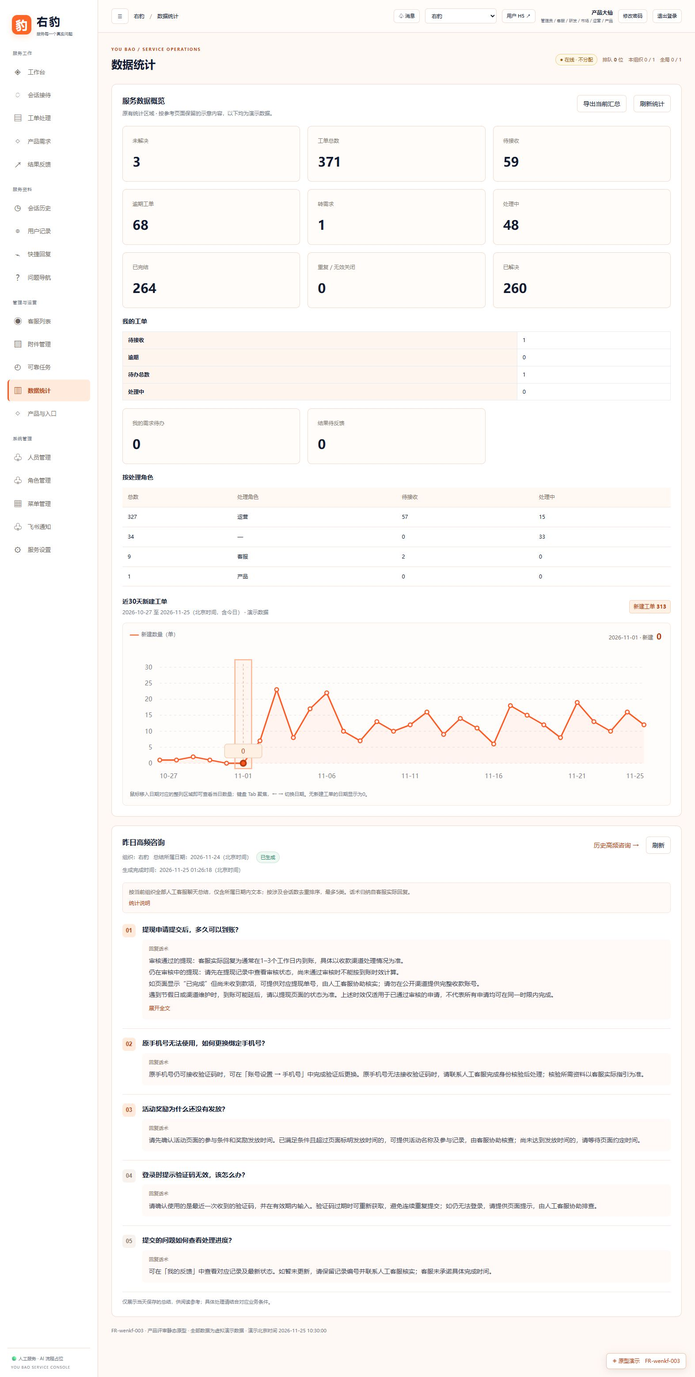
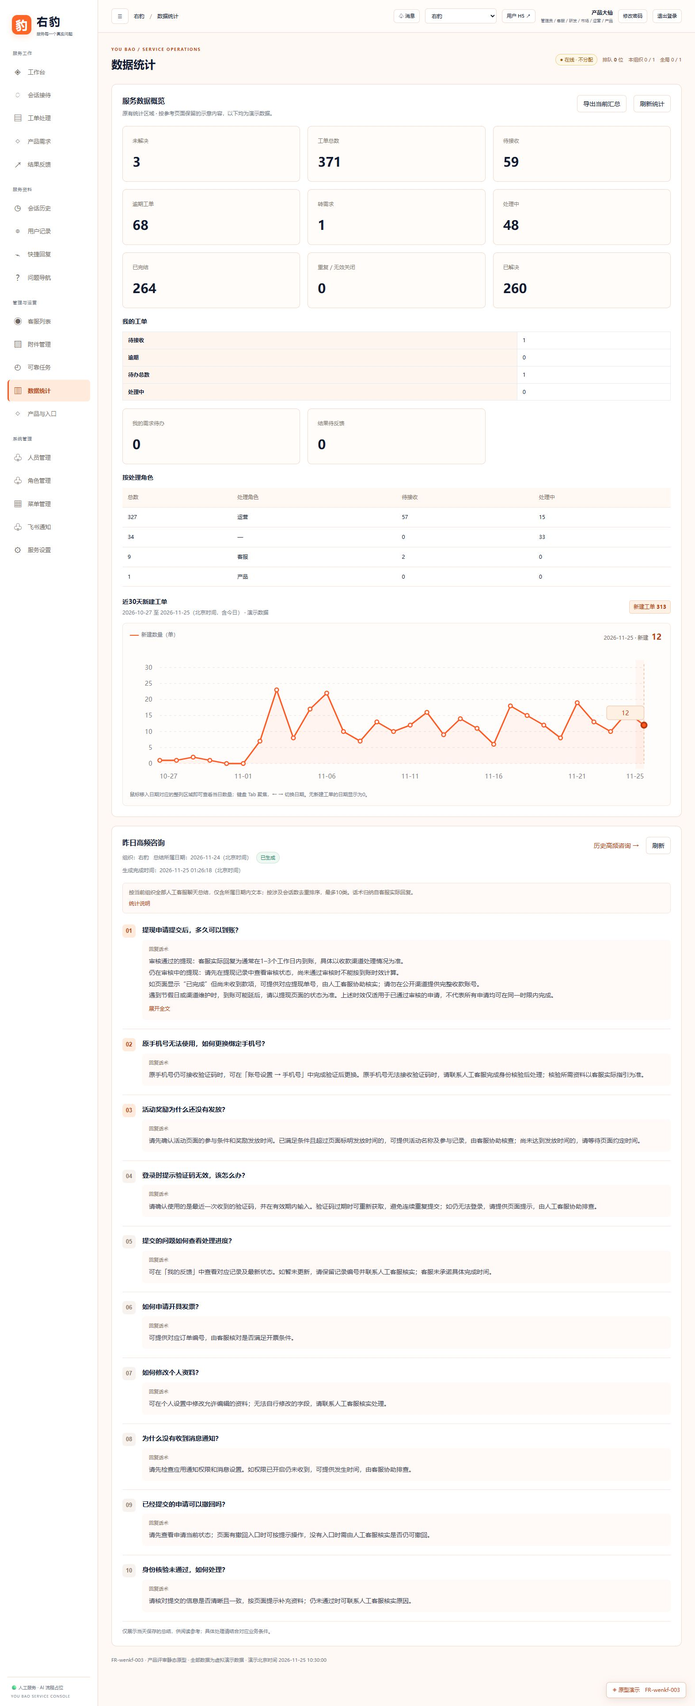
fix(FR-wenkf-003): update frequent consultations to Top 10

diff --git a/01-需求档案/FR-wenkf-003-每日高频咨询/04-静态Demo/FR-wenkf-003-每日高频咨询Demo.html b/01-需求档案/FR-wenkf-003-每日高频咨询/04-静态Demo/FR-wenkf-003-每日高频咨询Demo.html
@@ -14,7 +14,7 @@
 const $=s=>document.querySelector(s), $$=s=>[...document.querySelectorAll(s)];
 const shift=(d,n)=>new Date(Date.parse(d+'T00:00:00Z')+n*86400000).toISOString().slice(0,10);
 const days=(a,b)=>Math.round((Date.parse(b+'T00:00:00Z')-Date.parse(a+'T00:00:00Z'))/86400000);
-const scenes={success:'昨日成功 · Top 5',three:'实际3类 · 不补足',tie:'第5/6名同频 · 固定顺序',missing:'单项回复缺失',crossday:'跨日提问 · 次日回复不补入',history:'历史日期 · 20日分页',pending:'待生成 · 02:00前',generating:'生成中 · 02:00前',empty:'当日无有效咨询',failed:'生成失败 · 已超时',overdue:'生成中 · 已超时',first:'上线当天 · 首份未到',firstNext:'上线次日 · 首份完整自然日',loading:'查询加载中',readError:'首次读取失败',staleError:'同日刷新失败 · 保留旧结果',pageError:'下一次日期翻页失败',permission:'无数据统计权限',orgRace:'切组织 · 旧请求晚返回',midnight:'跨零点 · 刷新切昨日',recovered:'失败日已自动补齐',protected:'成功保存后重复任务失败'};
+const scenes={success:'昨日成功 · Top 10',three:'实际3类 · 不补足',tie:'第10/11名同频 · 固定顺序',missing:'单项回复缺失',crossday:'跨日提问 · 次日回复不补入',history:'历史日期 · 20日分页',pending:'待生成 · 02:00前',generating:'生成中 · 02:00前',empty:'当日无有效咨询',failed:'生成失败 · 已超时',overdue:'生成中 · 已超时',first:'上线当天 · 首份未到',firstNext:'上线次日 · 首份完整自然日',loading:'查询加载中',readError:'首次读取失败',staleError:'同日刷新失败 · 保留旧结果',pageError:'下一次日期翻页失败',permission:'无数据统计权限',orgRace:'切组织 · 旧请求晚返回',midnight:'跨零点 · 刷新切昨日',recovered:'失败日已自动补齐',protected:'成功保存后重复任务失败'};
 const params=new URLSearchParams(location.search);
 const state={view:params.get('view')==='history'?'history':'stats',scene:scenes[params.get('scene')]?params.get('scene'):'success',org:params.get('org')==='b'?'b':'a',today:'2026-11-25',clock:'10:30:00',date:'2026-11-24',target:'2026-11-24',page:1,loading:false,readError:false,stale:false,permission:true,refreshFail:false,pageFail:false,listError:false,expanded:new Set(),recovered:new Set(),draftError:'',statsRange:'全部',statsScroll:0};
 let requestId=0,toastTimer;
@@ -33,21 +33,26 @@ const qa=[
  {id:'reward',n:24,q:'活动奖励为什么还没有发放？',a:'请先确认活动页面的参与条件和奖励发放时间。已满足条件且超过页面标明发放时间的，可提供活动名称及参与记录，由客服协助核查；尚未达到发放时间的，请等待页面约定时间。'},
  {id:'login',n:18,q:'登录时提示验证码无效，该怎么办？',a:'请确认使用的是最近一次收到的验证码，并在有效期内输入。验证码过期时可重新获取，避免连续重复提交；如仍无法登录，请提供页面提示，由人工客服协助排查。'},
  {id:'progress',n:12,q:'提交的问题如何查看处理进度？',a:'可在「我的反馈」中查看对应记录及最新状态。如暂未更新，请保留记录编号并联系人工客服核实；客服未承诺具体完成时间。'},
- {id:'invoice',n:12,q:'如何申请开具发票？',a:'可提供对应订单编号，由客服核对是否满足开票条件。'}
+ {id:'invoice',n:11,q:'如何申请开具发票？',a:'可提供对应订单编号，由客服核对是否满足开票条件。'},
+ {id:'profile',n:9,q:'如何修改个人资料？',a:'可在个人设置中修改允许编辑的资料；无法自行修改的字段，请联系人工客服核实处理。'},
+ {id:'notice',n:8,q:'为什么没有收到消息通知？',a:'请先检查应用通知权限和消息设置。如权限已开启仍未收到，可提供发生时间，由客服协助排查。'},
+ {id:'cancel',n:7,q:'已经提交的申请可以撤回吗？',a:'请先查看申请当前状态；页面有撤回入口时可按提示操作，没有入口时需由人工客服核实是否仍可撤回。'},
+ {id:'verify',n:6,q:'身份核验未通过，如何处理？',a:'请核对提交的信息是否清晰且一致，按页面提示补充资料；仍未通过时可联系人工客服核实原因。'},
+ {id:'receipt',n:6,q:'如何查询历史操作记录？',a:'可在相关业务页面查找历史记录，若无法找到对应记录，请提供大致操作时间，由人工客服协助查询。'}
 ];
 function record(date=state.date){
  let status='success',variant='success';const delta=days(date,'2026-11-24');
  if(delta===1)variant='three';if(delta===2)status='empty';if(delta===3)status='failed';if(delta===4)status='pending';
  if(date===state.target){if(['pending','generating','empty','failed'].includes(state.scene))status=state.scene;if(state.scene==='overdue')status='generating';if(['three','missing','crossday','tie'].includes(state.scene))variant=state.scene;if(state.scene==='recovered')status='success';}
  if(state.recovered.has(state.org+':'+date))status='success';
- let items=qa.map(x=>({...x}));if(state.org==='b')items=items.map((x,i)=>({...x,q:['如何查询订单的配送进度？','收到的商品与订单不符如何处理？','如何修改订单的收货信息？','订单取消后退款如何查看？','优惠券为何无法使用？','如何申请开具发票？'][i],a:['可在订单详情查看物流轨迹。如物流长时间未更新，请提供订单编号，由客服协助联系配送方核实。','请保留商品及包装，并通过订单售后入口提交情况说明，客服核实后按订单规则处理。','尚未出库的订单，可联系人工客服核查是否仍可修改；已出库的订单需先核实配送状态，不能保证更改成功。','请查看订单退款状态，实际到账时间以支付渠道处理情况为准。','请核对优惠券的适用商品、有效期与使用条件，不满足条件时无法抵扣。','可提供对应订单编号，由客服核对开票条件。'][i],long:false}));
- items.sort((a,b)=>b.n-a.n||qa.findIndex(x=>x.id===a.id)-qa.findIndex(x=>x.id===b.id));items=items.slice(0,variant==='three'?3:5);
+ let items=qa.map(x=>({...x}));if(state.org==='b')items=items.map((x,i)=>({...x,q:['如何查询订单的配送进度？','收到的商品与订单不符如何处理？','如何修改订单的收货信息？','订单取消后退款如何查看？','优惠券为何无法使用？','如何申请开具发票？','如何申请商品退货？','订单物流显示签收但未收到怎么办？','如何查询售后申请的进度？','付款成功但订单未更新怎么办？','如何查询历史订单？'][i],a:['可在订单详情查看物流轨迹。如物流长时间未更新，请提供订单编号，由客服协助联系配送方核实。','请保留商品及包装，并通过订单售后入口提交情况说明，客服核实后按订单规则处理。','尚未出库的订单，可联系人工客服核查是否仍可修改；已出库的订单需先核实配送状态，不能保证更改成功。','请查看订单退款状态，实际到账时间以支付渠道处理情况为准。','请核对优惠券的适用商品、有效期与使用条件，不满足条件时无法抵扣。','可提供对应订单编号，由客服核对开票条件。','请在订单售后入口查看退货条件并提交申请，具体以订单适用规则为准。','请先核实是否由他人代收，仍未找到时可联系人工客服协助查询配送情况。','可在订单售后记录中查看状态，尚未更新时可提供申请编号由客服核实。','请勿重复付款，可提供订单编号与支付状态，由客服核实订单同步情况。','可在我的订单按日期查找记录，无法找到时可联系人工客服核实。'][i],long:false}));
+ items.sort((a,b)=>b.n-a.n||qa.findIndex(x=>x.id===a.id)-qa.findIndex(x=>x.id===b.id));items=items.slice(0,variant==='three'?3:10);
  if(['missing','crossday'].includes(variant)){items[items.length-1].q='深夜提交的账号异常问题如何处理？';items[items.length-1].a='';items[items.length-1].long=false;}
  const late=state.recovered.has(state.org+':'+date)||state.scene==='recovered'&&date===state.target;
  return {status,items,completed:(late?state.today:shift(date,1))+(late?' 10:20:16':' 01:26:18'),late};
 }
 function badge(status){const labels={success:'已生成',empty:'无数据',pending:'待生成',generating:'生成中',failed:'生成失败'};return '<span class="pill '+({success:'ok',failed:'bad',generating:'warn'}[status]||'')+'">'+labels[status]+'</span>'}
-function info(){return `<div class="intro">按当前组织全部人工客服聊天总结，仅含所属日期内文本；按涉及会话数去重排序，最多5类。话术归纳自客服实际回复。<br><details><summary>统计说明</summary><ul><li>范围为当前组织全部人工客服与用户的聊天文本，不限本人接待；不含工单、图片、语音和机器人数据。</li><li>按北京时间消息发送时间取所属日00:00（含）至次日00:00（不含）。跨日会话仅看当日文本，不跨日补全回复。</li><li>同一会话同类问题当日只计1次；同一会话可计入多类，转接不重复。同频按保存的固定次序排序，最多5类，不足不补齐，不提供合计数。</li><li>仅归纳同日客服实际回复，保留适用条件，不使用知识库补充；没有对应回复时明确提示。</li><li>每日凌晨自动处理前一自然日，次日02:00前可查看。刷新仅查询保存结果。</li><li>本组织演示上线日为${launch()}；首份覆盖上线当天完整自然日，包括上线前的当天文本，不补算上线日前日期。</li></ul></details></div>`}
+function info(){return `<div class="intro">按当前组织全部人工客服聊天总结，仅含所属日期内文本；按涉及会话数去重排序，最多10类。话术归纳自客服实际回复。<br><details><summary>统计说明</summary><ul><li>范围为当前组织全部人工客服与用户的聊天文本，不限本人接待；不含工单、图片、语音和机器人数据。</li><li>按北京时间消息发送时间取所属日00:00（含）至次日00:00（不含）。跨日会话仅看当日文本，不跨日补全回复。</li><li>同一会话同类问题当日只计1次；同一会话可计入多类，转接不重复。同频按保存的固定次序排序，最多10类，不足不补齐，不提供合计数。</li><li>仅归纳同日客服实际回复，保留适用条件，不使用知识库补充；没有对应回复时明确提示。</li><li>每日凌晨自动处理前一自然日，次日02:00前可查看。刷新仅查询保存结果。</li><li>本组织演示上线日为${launch()}；首份覆盖上线当天完整自然日，包括上线前的当天文本，不补算上线日前日期。</li></ul></details></div>`}
 function emptyState(title,desc,icon='◷',retry=false){return `<div class="state"><div class="stateicon" aria-hidden="true">${icon}</div><h3>${title}</h3><p>${desc}</p>${retry?'<button data-retry>重试</button>':''}</div>`}
 function content(){
  const r=record();if(state.loading&&!state.stale)return emptyState('加载中…','正在读取所选日期的保存结果，请稍候。');

diff --git a/portal/requirements.js b/portal/requirements.js
@@ -610,7 +610,7 @@ window.DELIVERY_REQUIREMENTS.push({
 window.DELIVERY_REQUIREMENTS.push({
   "id": "FR-wenkf-003",
   "name": "每日高频咨询与回复话术总结",
-  "description": "按日归纳人工客服聊天Top 5及实际回复，查看昨日并回查已保存的历史单日。",
+  "description": "按日归纳人工客服聊天Top 10及实际回复，查看昨日并回查已保存的历史单日。",
   "status": "待评审",
   "updated": "2026-11-25",
   "version": "V1.0",
@@ -653,7 +653,7 @@ window.DELIVERY_REQUIREMENTS.push({
           "items": [
             "按北京时间消息发送时间截取前一自然日文本，含00:00起点、不含次日00:00；不按会话开始或结束日期归日。",
             "仅分析人工客服与用户的聊天文本，不纳入工单、图片、语音或知识库答案。",
-            "同类问题合并，按涉及会话数排序取最多5类；同一会话同类问题当日只计1次，不足5类按实际展示。",
+            "同类问题合并，按涉及会话数排序取最多10类；同一会话同类问题当日只计1次，不足10类按实际展示。",
             "同一会话不同问题分别计数，转接不重复计数；同频保持固定顺序，页面不增加频次列。"
           ]
         },
@@ -688,7 +688,7 @@ window.DELIVERY_REQUIREMENTS.push({
         {
           "id": "success",
           "name": "昨日高频咨询",
-          "description": "服务概览下方展示Top 5及长话术",
+          "description": "服务概览下方展示Top 10及长话术",
           "category": "主要场景",
           "url": "../01-需求档案/FR-wenkf-003-每日高频咨询/04-静态Demo/FR-wenkf-003-每日高频咨询Demo.html?scene=success"
         },
@@ -708,7 +708,7 @@ window.DELIVERY_REQUIREMENTS.push({
         },
         {
           "id": "three",
-          "name": "不足5类",
+          "name": "不足10类",
           "description": "按实际3类展示",
           "category": "主要场景",
           "url": "../01-需求档案/FR-wenkf-003-每日高频咨询/04-静态Demo/FR-wenkf-003-每日高频咨询Demo.html?scene=three"
@@ -866,7 +866,7 @@ window.DELIVERY_REQUIREMENTS.push({
         "w": 280,
         "h": 66,
         "label": "系统：归并问题与实际回复",
-        "sub": "会话去重、固定排名、最多5类",
+        "sub": "会话去重、固定排名、最多10类",
         "client": "admin",
         "scene": "",
         "kind": "system"

diff --git a/01-需求档案/FR-wenkf-003-每日高频咨询/02-PRD/PRD.md b/01-需求档案/FR-wenkf-003-每日高频咨询/02-PRD/PRD.md
@@ -19,7 +19,7 @@
 
 ### 2.1 背景与目标
 
-运营及管理人员需要了解用户集中咨询的问题，以及人工客服实际使用的回复方式。系统每日自动分析当前组织人工客服与用户聊天文本，生成前一北京时间自然日的高频咨询Top 5及对应回复话术；在数据统计页展示昨日结果，并逐日保存供历史回查。
+运营及管理人员需要了解用户集中咨询的问题，以及人工客服实际使用的回复方式。系统每日自动分析当前组织人工客服与用户聊天文本，生成前一北京时间自然日的高频咨询Top 10及对应回复话术；在数据统计页展示昨日结果，并逐日保存供历史回查。
 
 用户无需主动生成，也不参与审核发布。查看历史读取保存结果，不在每次查看时重新生成。
 
@@ -30,7 +30,7 @@
 | F01 | 昨日高频咨询模块 | 4.1、5.4 | 数据统计页顶部展示昨日日期、排名问题和对应话术 |
 | F02 | 历史高频咨询页 | 4.2、5.5 | 独立页面按天回查已保存结果 |
 | F03 | 按日自动生成与数据范围 | 5.1、5.4 | 仅分析当前组织统计日内人工聊天文本，次日02:00前可查看 |
-| F04 | 问题归并、频次与排名 | 5.2 | 按涉及会话数去重排序，最多5类 |
+| F04 | 问题归并、频次与排名 | 5.2 | 按涉及会话数去重排序，最多10类 |
 | F05 | 实际回复话术归纳 | 5.3 | 每个问题展示其对应的实际回复归纳，无审核步骤 |
 | F06 | 每日保存与记录生命周期 | 5.5 | 上线次日首份、逐日保存、防重复及成功保护 |
 | F07 | 权限、组织与查询一致性 | 3、5.6、7 | 有数据统计权限者仅查看当前组织，不按本人接待范围缩小 |
@@ -69,7 +69,7 @@
 
 ### 4.2 正常流程
 
-1. 自然日结束 → 系统按组织读取该日聊天文本 → 归并问题、归纳客服实际回复 → 按去重会话数排序取最多5类 → 完整保存结果 → 次日02:00前可查看。
+1. 自然日结束 → 系统按组织读取该日聊天文本 → 归并问题、归纳客服实际回复 → 按去重会话数排序取最多10类 → 完整保存结果 → 次日02:00前可查看。
 2. 有权限账号进入当前组织P01 → 查看昨日日期及各问题对应话术 → 点击历史入口。
 3. P02默认查看最近可回查日期 → 选择某个日期 → 阅读该日完整总结 → 返回P01。
 
@@ -83,7 +83,7 @@
 
 - 进入P01即查询前一北京时间自然日的保存结果；标题为「昨日高频咨询」，明确显示所属日期，日期格式YYYY-MM-DD。
 - 无用户输入条件，昨日日期由北京时间当前日期减1天得出，不受数据统计页其他筛选条件影响（方案设计）。
-- 最多展示5项，每项包含排名、问题描述及对应回复话术。话术紧随所属问题，长内容可展开阅读全文，不静默截断关键信息（方案设计）。
+- 最多展示10项，每项包含排名、问题描述及对应回复话术。话术紧随所属问题，长内容可展开阅读全文，不静默截断关键信息（方案设计）。
 - 右上角「历史高频咨询」进入P02。查看无需再次触发AI调用。
 - 方案设计：页面不增加会话数统计列，频次仅用于内部排名；展示日期、生成状态，成功时展示生成完成时间并标注北京时间。
 - 今日、前天或任务执行日不得替代昨日；昨日未成功时展示其真实状态，不能回退展示前天成功结果冒充昨日。
@@ -122,7 +122,7 @@
 
 - 表达不同但属于同类的问题合并为一类。频次为统计日涉及该类别的去重会话数，不是用户人数、消息条数或客服接待次数。
 - 去重范围为同组织、同日、同会话、同问题类别。同一会话同类反复提问只计1次；另一会话出现同类问题再加1。
-- 按频次降序取前5类；不足5类按实际数量展示，不虚构问题。
+- 按频次降序取前10类；不足10类按实际数量展示，不虚构问题。
 
 **方案设计：**
 
@@ -177,7 +177,7 @@
 | --- | --- | --- |
 | 首次查询加载 | 目标日期及加载占位，不展示其他日结果 | 查询成功后替换 |
 | 上线当天尚无历史 | 首份总结次日提供说明，无上线前日期 | 次日刷新 |
-| 无有效咨询 | 「当日暂无可总结的咨询」，不补齐5类 | 可回查该日保存状态 |
+| 无有效咨询 | 「当日暂无可总结的咨询」，不补齐10类 | 可回查该日保存状态 |
 | 待生成/生成中 | 所属日期及真实生成状态，超时增加未按计划完成说明 | 刷新查看最新状态 |
 | 生成失败 | 「生成失败，请稍后刷新查看」；不显示原始模型错误或个人信息 | 系统自动重试，用户刷新仅查询 |
 | 查询失败 | 「加载失败，请重试」；同日期刷新可保留上次读取结果并标注 | 重试本次读取，不重新生成 |
@@ -198,7 +198,7 @@
 | 会话身份 | 沿用系统会话定义，转接不重复统计同一会话 | 内部去重，不新增下钻 |
 | 问题类别 | 对当日同类问题语义归并后的描述 | 每项展示 |
 | 类别频次 | 该类别涉及的去重会话数，正整数 | 内部排序，不新增频次数值展示（方案） |
-| 最终排名 | 1至实际类别数量，最多5，唯一连续 | 展示顺序，保存后稳定 |
+| 最终排名 | 1至实际类别数量，最多10，唯一连续 | 展示顺序，保存后稳定 |
 | 回复话术 | 对应问题的同日实际回复归纳；缺失时有明确标识 | 显示归纳或缺失提示 |
 | 生成状态 | 待生成、生成中、成功、无数据、失败 | 与页面查询加载/失败状态独立 |
 | 完成时间 | 结果成功保存或无数据完成时间，展示至秒并标注北京时间（方案） | 成功/无数据时展示；失败不能伪造完成时间 |
@@ -220,14 +220,14 @@
 - A在D和D+1均再次咨询同类问题，分别在两日各计1；不能将历史累计次数带入日频次。
 - D日23:59提问，D+1日00:01回复：D可有该问题，但不能使用次日回复；D+1仅有回复不能从前日文本补出当天提问。
 - 若2026-11-23 15:00上线，首份在11月24日02:00前提供，覆盖11月23日00:00至11月24日00:00前的文本；不提供11月22日总结。
-- 频次为6、5、4、3、2、2时取5类，两个频次2的类别按固定并列次序决定第5名；同一保存结果重复查看顺序一致。
+- 频次为42、31、24、18、12、11、9、8、7、6、6时取10类，两个频次6的类别按固定并列次序决定第10名；同一保存结果重复查看顺序一致。
 
 ## 7. 数据质量与实现约束
 
 - 生成前确认组织范围、输入时间范围及读取完整性。读取失败、缺失或模型输出不符合结果规则时，不得假报无咨询或成功。
 - 问题须来自当日用户咨询，话术须来自关联的同日客服回复。模型不能根据聊天中要求改变指令的文本越过统计范围或编造结论。
 - 模型调用只使用本次必要聊天文本及其关联信息，不附带其他组织、工单或统计日外文本。具体供应商、调用协议及信息处理实现由研发评审，不声明未确定的模型能力已实现。
-- 对保存结果验证类别不重复、频次为正整数、排名最多5且连续、问题话术对应；话术缺失是合法状态，不强制编造内容使校验通过。
+- 对保存结果验证类别不重复、频次为正整数、排名最多10且连续、问题话术对应；话术缺失是合法状态，不强制编造内容使校验通过。
 - 历史读取不调用模型；当前客服状态、会话结束、后续回复等不追溯改写已保存结果。实际输入缺失、历史数据可得性及消息延迟需要评审核实，不能静默改成缩短统计时段。
 - 不在本文指定数据库、接口路径、模型名称、吞吐或响应时延数字；02:00前可查看是已确认业务目标，须据此完成任务时序设计。
 
@@ -246,8 +246,8 @@
 | AC07 | F03、F04 | 跨日会话未结束，两日均实际询问同类问题 | 生成相邻两日结果 | 按各日文本分别判断，各日同会话同类最多1次，不按开始接待日期整体归属 |
 | AC08 | F04 | 同会话同类3次，另一会话同类1次 | 检查生成计数与排名 | 该类别频次为2，不按4条消息或客服人数计算 |
 | AC09 | F04 | A有两个类别并转接客服，另有B、C、X，样本如6.2 | 生成并核查结果 | 提现3、修改手机号2；转接不重复，总和不作为总会话数 |
-| AC10 | F04 | 实际类别数分别为3和7 | 分别生成查看 | 分别展示3和5类，不补齐、不超出Top 5 |
-| AC11 | F04 | 第5、6名频次相同 | 多次刷新P01及历史同日 | 第5名由固定并列次序决定，同份结果顺序不变 |
+| AC10 | F04 | 实际类别数分别为3和12 | 分别生成查看 | 分别展示3和10类，不补齐、不超出Top 10 |
+| AC11 | F04 | 第10、11名频次相同 | 多次刷新P01及历史同日 | 第10名由固定并列次序决定，同份结果顺序不变 |
 | AC12 | F05 | 实际客服回复有不同适用条件、限制 | 查看归纳话术 | 条件分别表达，不虚构承诺或统一时限，不引入知识库答案 |
 | AC13 | F05 | 当日提问，次日才有回复；另有无回复问题 | 生成当日结果 | 当日不取次日回复，问题保留，对应显示暂无可归纳的客服回复 |
 | AC14 | F03、F05 | 当日仅回复前日问题，前日文本不在输入范围 | 生成当日结果 | 不读取前日文本补出问题或据此计算当日频次 |
@@ -257,7 +257,7 @@
 | AC18 | F01、F02、F06 | 功能上线当天 | 查看模块和历史页 | 显示首份次日提供说明，无上线前历史或伪造空咨询 |
 | AC19 | F06 | 同组织同日期重复任务或并发重试 | 查询记录和页面 | 至多一份可见结果，无重复项、半成品或混合版本 |
 | AC20 | F06 | 某日已有成功结果或已完成无数据结果 | 后续重复任务失败，再读取 | 原完成结果不被失败覆盖，也不自动发布另一份不同结果 |
-| AC21 | F06、F08 | 当日无文本或完整分析后无有效咨询 | 查看该日和历史 | 保存无数据状态，显示当日暂无可总结的咨询；无虚构5类 |
+| AC21 | F06、F08 | 当日无文本或完整分析后无有效咨询 | 查看该日和历史 | 保存无数据状态，显示当日暂无可总结的咨询；无虚构10类 |
 | AC22 | F03、F06、F08 | 读取不完整、模型超时或保存失败 | 执行生成 | 标记失败，不显示为无数据或正常完成，不公开部分结果 |
 | AC23 | F06、F08 | 失败后自动重试在次日之后成功 | 访问原所属日期 | 同一日期补齐，无重复记录，补齐日期不替代所属日期 |
 | AC24 | F01、F06、F08 | 昨日02:00后仍未完成，前日成功 | 进入模块并刷新 | 显示昨日真实状态和未按计划完成，不拿前日冒充昨日 |
@@ -297,3 +297,6 @@
 - 并列类别次序的可复现实现、记录唯一性、并发保存及成功保护；不规定特定数据库或接口实现。
 
 本文件完成PRD阶段草案。后续由用户决定是否进入UX设计及Demo阶段；本次不自动推进、不上传仓库或发布。
+
+
+2026-11-25数量修订：按用户确认，高频咨询由Top 5调整为Top 10，昨日与历史均最多展示10类；不足10类按实际展示，其他规则不变。

diff --git a/01-需求档案/FR-wenkf-003-每日高频咨询/01-需求单/需求单.md b/01-需求档案/FR-wenkf-003-每日高频咨询/01-需求单/需求单.md
@@ -18,7 +18,7 @@
 
 用户希望通过接入AI模型，自动归纳每日人工客服与用户互动中高频出现的问题及客服实际使用的回复话术，帮助运营、管理人员了解用户集中咨询的事项，并回查历史变化。
 
-本次目标为：每日自动生成前一个北京时间自然日的高频咨询Top 5及对应回复话术；在数据统计页展示昨日总结；逐日保存总结，在独立历史页面回查。现有页面是否已有其他分析能力未提供完整材料，不据此推断。
+本次目标为：每日自动生成前一个北京时间自然日的高频咨询Top 10及对应回复话术；在数据统计页展示昨日总结；逐日保存总结，在独立历史页面回查。现有页面是否已有其他分析能力未提供完整材料，不据此推断。
 
 ## 3. 使用用户与权限
 
@@ -65,9 +65,9 @@
 用户已确认：
 
 - 将表达不同但属于同类的问题合并为一个问题类别。
-- 每个问题类别按涉及的会话数计算频次，并按该频次排序，取前5类。
+- 每个问题类别按涉及的会话数计算频次，并按该频次排序，取前10类。
 - 同一会话反复询问同类问题，只对该问题类别计1次。
-- 不足5类时，按实际类别数量展示，不补足或虚构问题。
+- 不足10类时，按实际类别数量展示，不补足或虚构问题。
 
 口径示例：同一会话三次询问提现到账时间，对该问题类别只计1个会话；另一会话询问同类问题，再增加1个会话。
 
@@ -108,7 +108,7 @@
 ### 5.6 无数据及异常状态（方案建议）
 
 - 尚未完成生成时展示「生成中／待生成」及所属日期，避免将未完成结果表现为空咨询。
-- 当天没有有效咨询时，保存对应日期的无数据状态，展示「当日暂无可总结的咨询」，不虚构5个问题。
+- 当天没有有效咨询时，保存对应日期的无数据状态，展示「当日暂无可总结的咨询」，不虚构10个问题。
 - 聊天读取或AI调用失败时，展示对应日期的生成失败状态；02:00后仍未成功属于未满足可用时间目标，不显示为正常完成。
 - 失败重试成功后可补齐该日期的记录；不把前天成功的总结冒充为昨日总结。
 - 查询历史失败与当日确无咨询应区分，允许重新查询；不因页面查询失败改写已保存记录。
@@ -120,7 +120,7 @@
 
 ### 场景一：系统按日生成
 
-北京时间自然日结束 → 获取已确认组织及时间范围内的聊天文本 → AI归并问题并归纳实际回复 → 按会话频次取最多5类 → 按组织与所属日期保存 → 次日02:00前供后台查看。无数据或生成失败时，按相应状态处理。
+北京时间自然日结束 → 获取已确认组织及时间范围内的聊天文本 → AI归并问题并归纳实际回复 → 按会话频次取最多10类 → 按组织与所属日期保存 → 次日02:00前供后台查看。无数据或生成失败时，按相应状态处理。
 
 ### 场景二：查看昨日总结
 
@@ -136,7 +136,7 @@
 - 将不同组织的聊天混合分析，或向当前组织展示其他组织结果。
 - 将工单内容、图片或语音纳入本次总结。
 - 用消息条数代替涉及会话数排序，或将同一会话的同类重复提问多次累计。
-- 不足5类仍编造问题凑足5类。
+- 不足10类仍编造问题凑足10类。
 - 将某个问题的回复话术展示到其他问题下。
 - 将知识库补充答案或AI自行编造的回答标记为客服实际回复归纳。
 - 把今天实时内容、其他日期结果或生成任务执行日期当作昨日总结所属日期。
@@ -164,3 +164,6 @@
 ## 10. 后续阶段说明
 
 本需求单业务范围与日期边界已确认。后续可按用户要求进入PRD阶段，展开生成规则、结果字段、权限校验、异常状态和验收标准，并细化本文方案建议。本次仅更新需求单，不自动推进后续阶段。
+
+
+2026-11-25数量修订：按用户确认，高频咨询由Top 5调整为Top 10，昨日与历史均最多展示10类；不足10类按实际展示，其他规则不变。

diff --git a/01-需求档案/FR-wenkf-003-每日高频咨询/04-静态Demo/使用说明.md b/01-需求档案/FR-wenkf-003-每日高频咨询/04-静态Demo/使用说明.md
@@ -17,8 +17,8 @@
 
 | 参数 | 入口/状态 |
 | --- | --- |
-| `?scene=success` | 默认Top 5，含两个适用条件和长话术；第5/6名同频，固定保留第5名 |
-| `?scene=three` | 实际3类，不补足5条 |
+| `?scene=success` | 默认Top 10，含两个适用条件和长话术；第10/11名同频，固定保留第10名 |
+| `?scene=three` | 实际3类，不补足10条 |
 | `?scene=tie` | 固定并列排名，与默认同一保存顺序；不展示频次 |
 | `?scene=missing` / `?scene=crossday` | 最后一项无当日可归纳回复；跨日示例不取次日回复 |
 | `?scene=history` | 历史默认昨日，36个日期、两页 |
@@ -45,7 +45,7 @@
 ## 演示数据与限制
 
 - 默认北京时间：2026-11-25 10:30:00；右豹虚拟上线日2026-10-20，星河2026-11-10。上线当天及上线次日场景另设上线日2026-11-25，不能把这些日期当作生产起点。
-- 默认历史：11月24日5类、23日3类、22日无数据、21日失败、20日待生成，其他日期为稳定样例。默认排序依据为内部虚拟会话频次42、31、24、18、12、12，页面只显示前5类，不展示频次或合计。
+- 默认历史：11月24日10类、23日3类、22日无数据、21日失败、20日待生成，其他日期为稳定样例。默认排序依据为内部虚拟会话频次42、31、24、18、12、11、9、8、7、6、6，页面只显示前10类，不展示频次或合计。
 - 所有问题、条件、时效和回复均为虚拟客服聊天归纳样例，不是右豹正式服务承诺。没有个人真实信息。跨日示例假定当日23:59提问、次日00:01回复，因此当日话术缺失。
 - 后台AI归纳、调度、会话去重、数据库唯一约束和权限鉴别均未真实实现；演示在本地模拟交互及结果。内嵌样例可在源文件中查看，不能当作真实权限安全方案。
 - 面板里的补齐、权限、时钟变化仅保留在当前页面内；浏览器刷新后按URL场景重新初始化。稳定业务入口和保存样例保持一致，不模拟持久数据库。
@@ -54,7 +54,7 @@
 
 ## 验证与预览
 
-已在可用桌面浏览器代表性视口走通：长话术展开/收起、昨日与历史往返、20日分页和日期联动、3类展示、非法日期保留原结果、生成失败超时、刷新失败保留5项并重试、组织切换撤下旧内容、权限撤销、缺失回复、翻页失败恢复。另补查嵌入入口与关键操作。
+已在可用桌面浏览器代表性视口走通：长话术展开/收起、昨日与历史往返、20日分页和日期联动、3类展示、非法日期保留原结果、生成失败超时、刷新失败保留10项并重试、组织切换撤下旧内容、权限撤销、缺失回复、翻页失败恢复。另补查嵌入入口与关键操作。
 
 主要预览位于同需求 `05-预览图/01-昨日高频咨询.jpg` 和 `05-预览图/02-历史高频咨询.jpg`；最新用户参考截图一并保存在 `05-预览图/现有数据统计页参考.png`。这是产品评审原型；2026-11-25已接入交付中心，相关记录见下文。
 
@@ -74,3 +74,6 @@
 ## 2026-11-25 交付中心接入
 
 根目录 `index.html` → FR-wenkf-003，仅管理后台22个场景。门户提供需求规则、独立业务流程、独立打开和重置；嵌入仍保留业务阅读及日期操作。交付状态待评审，方案设计随PRD与UX整体评审，不表示真实研发上线。源文件及门户配置同步至GitHub，部署验证结果由本次交付记录说明。
+
+
+2026-11-25数量修订：按用户确认，高频咨询由Top 5调整为Top 10，昨日与历史均最多展示10类；不足10类按实际展示，其他规则不变。
